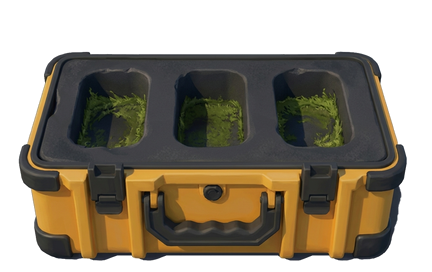
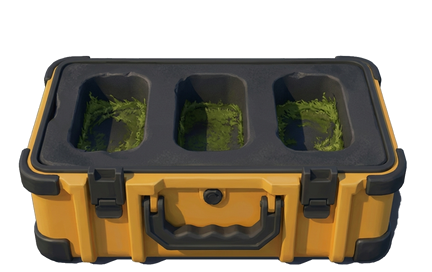
Cargo larger haul: the 72x96 containers and their shadow, the crates 4 px lower, the pods at y 108

diff --git a/design/style-guide/station-layouts.md b/design/style-guide/station-layouts.md
@@ -931,8 +931,8 @@ The device's own painted parts, one key light top left: the bay is the signed pa
 | --- | --- | --- |
 | `ribbon` | 208, 56, 608, 40 as the bound; the width fits its words (words + 32, up to 8, at least 160) centred on 512 | 20 px medium, one line: "First crate home", "Second crate home", "Third crate home"; a walk crate past the third and a developer crate (uncounted) "Another crate home"; a sitting crate "Fig's portrait". It shows from 500 ms, 8 px above the pods' boxes. A ready sitting crate opens in Cargo after the walk crates, in the same sequence, docked or away. It gets no row on the report; when only sitting crates opened, no card shows and the bay shows, emptied |
 | `crate` | 296, 72, 432, 272 | The crate closer, the whole case, centred on 512, standing on the floor (feet 337) with `crate-shadow-432x24` at (296, 325) in every step, 8 px above the rack: sealed, opening (the tag torn, the lid lifting), open (the lid off, its fitted cut-outs) |
-| Containers | 48×64 at (184, 272), (240, 272), (736, 272), feet on 336, each with `cargo-store-shadow-48x14` at y 329, opening only, from 800 ms | A material's container only when the crate brought it (`gained > 0`, the report's Gathered figure); `cargo-energy-48x64`, `cargo-data-48x64`, `cargo-essence-48x64`; a cut at 800 ms with the counter tick, also with reduced motion, until the crate's end; the travelling pods draw over them; no digits, never kept |
-| Its pods | 88×112, 104 apart on y 104 | One at 468; two at 416, 520; three at 364, 468, 572. A crate of more than three shows three; each later pod rises in the middle place as the one before leaves |
+| Containers | 72×96 at (216, 240), (736, 240), (816, 240), feet on 336, each with `cargo-store-shadow-72x21` at y 325 (its core row 11 on 336), opening only, from 800 ms | A material's container only when the crate brought it (`gained > 0`, the report's Gathered figure); `cargo-energy-72x96`, `cargo-data-72x96`, `cargo-essence-72x96`; energy left of the closer, data then essence right of it, 8 px between rects; a cut at 800 ms with the counter tick, also with reduced motion, until the crate's end; the travelling pods draw over them; no digits, never kept |
+| Its pods | 88×112, 104 apart on y 108 | One at 468; two at 416, 520; three at 364, 468, 572. A crate of more than three shows three; each later pod rises in the middle place as the one before leaves |
 | `travel` | 176, 72, 672, 472 | Each pod in a straight line from its place to its well's pod place, whole pixels, eased in and out; nothing scaled |
 | `rack` | as in the bay | A well stays empty until its pod lands; the bay is open and drawn in the opening |
 
@@ -997,7 +997,7 @@ Cargo has no focus targets: the ring is on nothing, and the pad does nothing.
 | Crate in the bay | 256×176, `crate-sealed-256x176`, `crate-sitting-256x176` |
 | Crate closer | 432×272, sealed, opening and open |
 | Pod (crate, travel, rack) | 88×112, the collection class |
-| Rack insert, placed (`cargo-rack-992x168`), report plate, 21 heights (`cargo-report-plate-560x128` to `560x288`), contact shadows (`crate-shadow-256x24`, `crate-shadow-432x24`, `cargo-store-shadow-48x14`) | 992×168; 560×128 to 288; 256×24, 432×24, 48×14 |
+| Rack insert, placed (`cargo-rack-992x168`), report plate, 21 heights (`cargo-report-plate-560x128` to `560x288`), contact shadows (`crate-shadow-256x24`, `crate-shadow-432x24`, `cargo-store-shadow-72x21`) | 992×168; 560×128 to 288; 256×24, 432×24, 72×21 |
 | Waiting mark | 24×24, `mark-waiting-24` |
 
 ---
